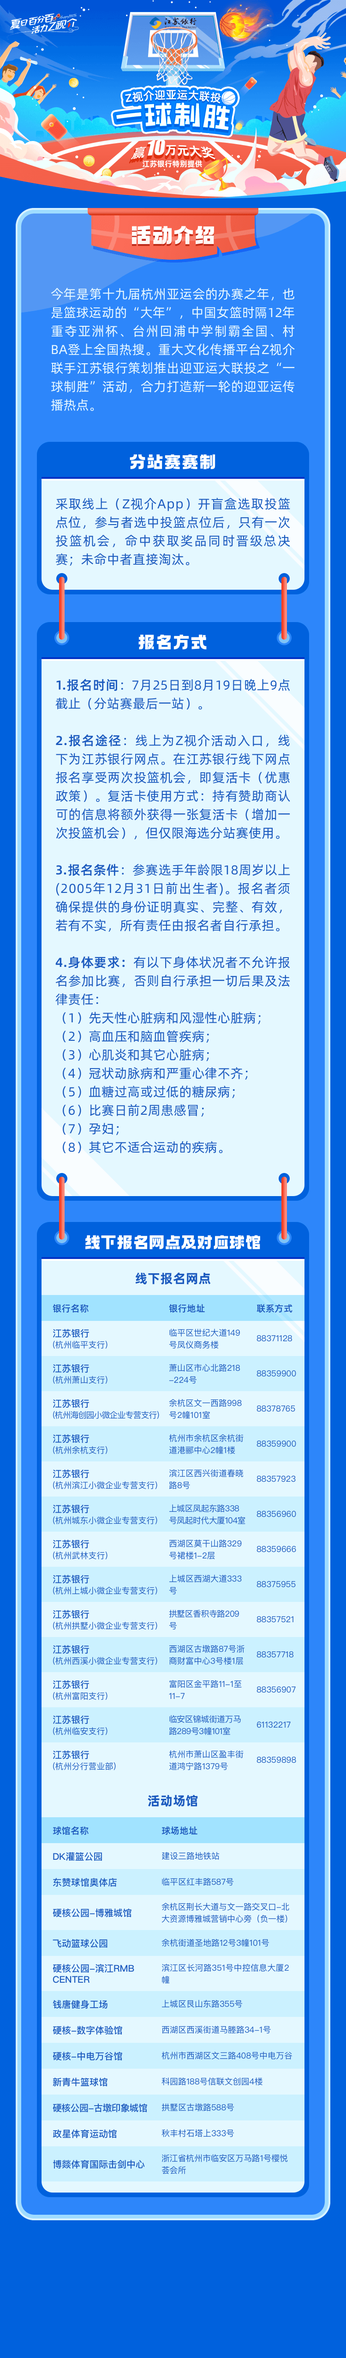
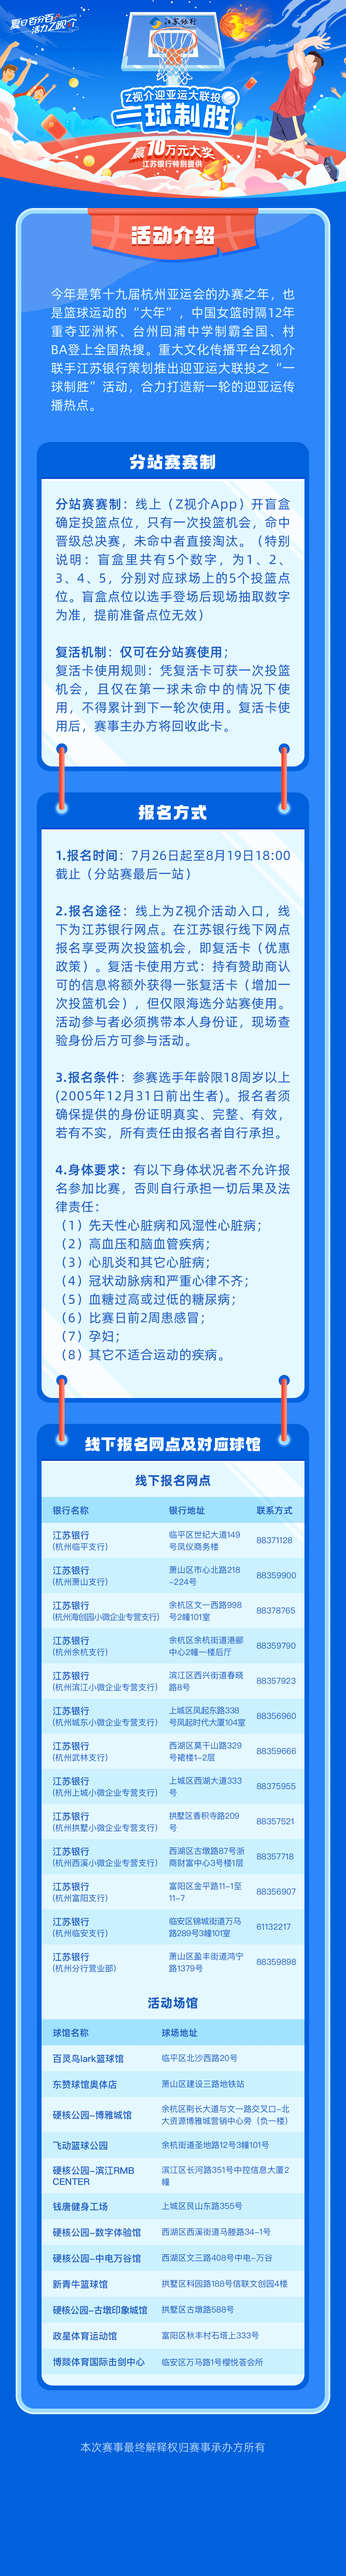
feat: 修改ui

diff --git a/src/views/index/index.vue b/src/views/index/index.vue
@@ -251,10 +251,10 @@ export default defineComponent({
 
   .indexBg {
     background: url(../../assets/indexback.png) no-repeat;
-    background-size: 750px 5184px;
+    background-size: 750px 5572px;
     position: absolute;
     width: 750px;
-    height: 5184px;
+    height: 5572px;
     left: 0%;
   }
 
